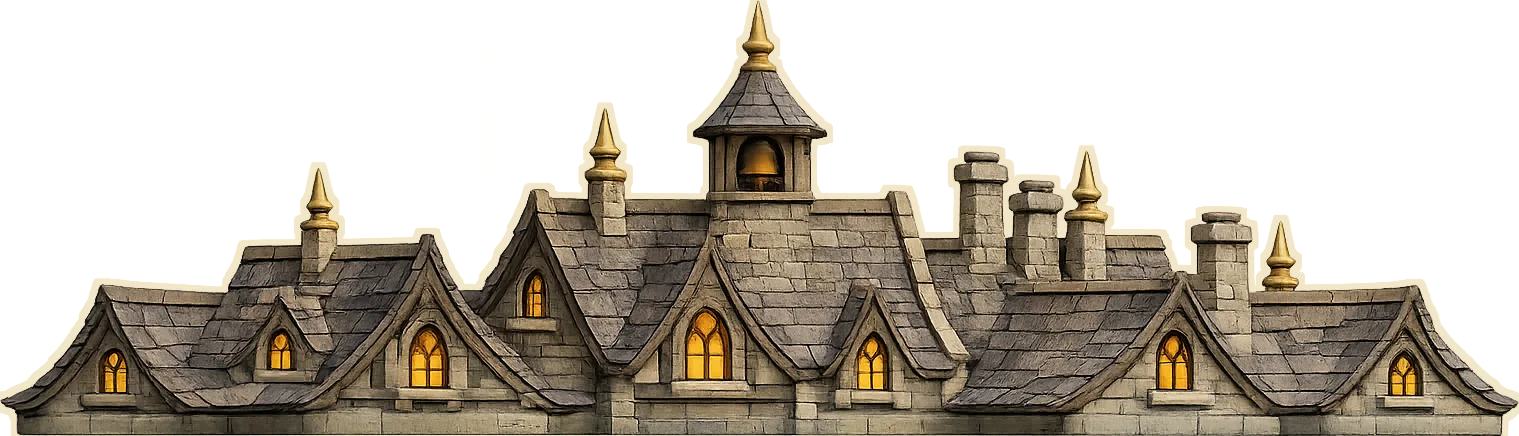
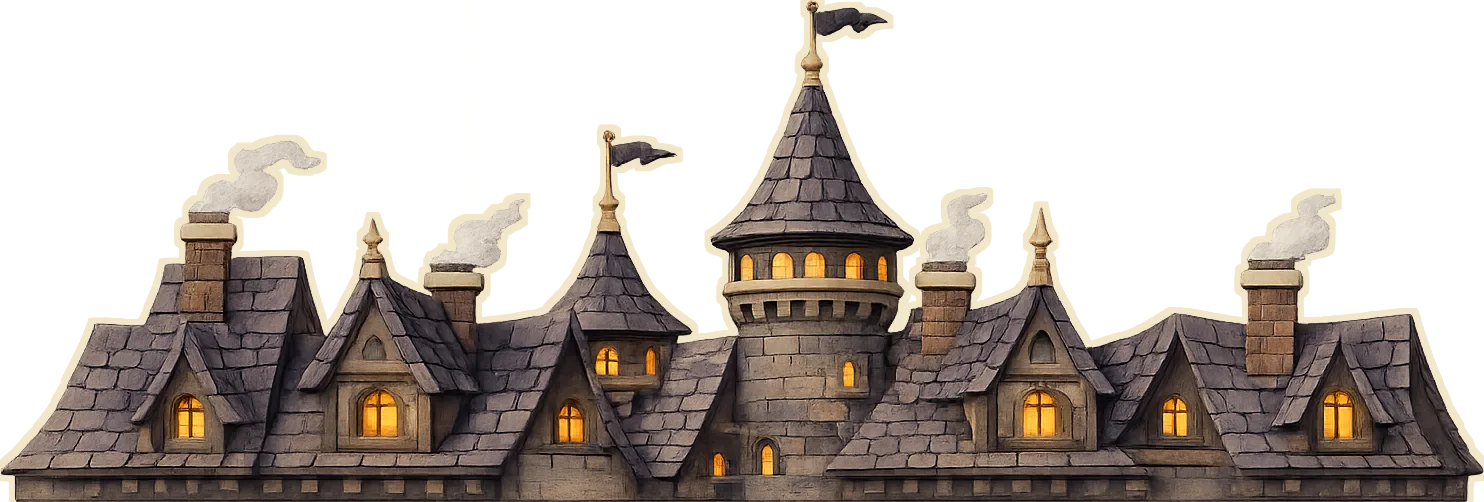
feat(labs/storybook): gallery arcade plate + real citadel-a city strips
The final two Keep v2 panels landed. The gallery tier gets its die-cut
arcade plate (delivered 3.677:1 -> flush width 0.68, height 0.1849),
closing the last blank band on the tower - the keep now reads as one
continuous painted elevation: wall, hall, arcade loggia, belfry, spire,
raven. The exposed cap strip above the plate renders as interior shadow
under the balcony cantilever.

ch3-citadel-a is now the real rooftop strip (2.956:1, dipped eaves at
both ends), replacing the mis-saved balcony duplicate: FAN_OUT restored
to a->l-mound0/r-mound1 with b/c back on two slots each, and the two
retargeted city rows retuned to the new aspect (widths 0.2365/0.2424).

A10 wedge containment: the keepstack joins the dress/rotor linear-slack
class - its anti-z-fight rider lifts (PLATE_LIFT/BALCONY_LIFT 0.004)
may exit the zero-thickness wedge by paper thickness near page-touch,
matching the bench's PLATE_WEDGE_TOL contract.

Verified: aspect bench 20/28 ok (8 known deferred sides/backs),
derive-keep-{stack,cityrows,gallery,winch} all pass, 1058/1058 unit,
tsc clean.

diff --git a/components/labs/storybook/content.ts b/components/labs/storybook/content.ts
@@ -257,10 +257,12 @@ const CH3_LAYERS: readonly SceneLayer[] = [
       // die-cut battlement, not raw kraft. Back cap braces, flat lid seats the
       // gallery + carries the balcony.
       { key: 'hall', a: 0.4, height: 0.25, z0: -0.34, z1: 0.34, roof: 'flat', capFront: true, capBack: true, plate: { width: 0.8, height: 0.1799 } },
-      // Balcony Gallery — solid capFront tier below the jutting gold balcony. Its
-      // die-cut arcade plate (3.1:1) is PENDING (user generating); until it lands
-      // the cap renders as plain kraft paper (no plate, no `-front` art yet).
-      { key: 'gallery', a: 0.34, height: 0.22, z0: -0.28, z1: 0.28, roof: 'flat', capFront: true, capBack: true },
+      // Balcony Gallery — solid capFront tier below the jutting gold balcony.
+      // Facade plate: painted arcade loggia (delivered 3.677) sized plate width =
+      // cap width 0.68 (flush, like the hall fallback) -> height 0.1849; the
+      // exposed cap strip above (0.185..0.22) renders as interior shadow, reading
+      // as the recess under the balcony cantilever.
+      { key: 'gallery', a: 0.34, height: 0.22, z0: -0.28, z1: 0.28, roof: 'flat', capFront: true, capBack: true, plate: { width: 0.68, height: 0.1849 } },
       // Rookery Loft — box shell whose walls carry die-cut arch voids (art: a
       // see-through belfry) and host the winch iris + counterweight; flat cap
       // slab seats the crown. Facade plate: painted roof + bell (delivered 2.427)
@@ -305,15 +307,15 @@ const CH3_LAYERS: readonly SceneLayer[] = [
   // overrun the radius cap). Bench Y1-Y6 all green (fold-flat, keep D-G2,
   // row/fringe/winch-disc D-G2, real-time 5% margin, fits-page, pinned-camera
   // sightline 51% visible). Slot->strip aspect per the prepare-art FAN_OUT
-  // (b-strips 3.484 -> l0/l1/r2, c-strips 3.185 -> l2/r0/r1).
+  // (a-strips 2.956 -> l0/r1, b-strips 3.484 -> l1/r2, c-strips 3.185 -> l2/r0).
   { id: 'ch3-skyline-l', kind: 'backdrop', role: 'scenery', mech: 'skyline', side: 'left', rows: [
-    { F: 0.44, zc: -0.56, height: 0.08, width: 0.2787, standDeg: 68 },
+    { F: 0.44, zc: -0.56, height: 0.08, width: 0.2365, standDeg: 68 },
     { F: 0.45, zc: -0.46, height: 0.082, width: 0.2857, standDeg: 68 },
     { F: 0.45, zc: -0.37, height: 0.078, width: 0.2484, standDeg: 68 },
   ] },
   { id: 'ch3-skyline-r', kind: 'backdrop', role: 'scenery', mech: 'skyline', side: 'right', rows: [
     { F: 0.44, zc: -0.56, height: 0.084, width: 0.2675, standDeg: 68 },
-    { F: 0.45, zc: -0.46, height: 0.082, width: 0.2612, standDeg: 68 },
+    { F: 0.45, zc: -0.46, height: 0.082, width: 0.2424, standDeg: 68 },
     { F: 0.45, zc: -0.37, height: 0.075, width: 0.2613, standDeg: 68 },
   ] },
   // THE TOWER-HOIST WINCH (derive-keep-winch.mjs) — the E-G6 composed-machine

diff --git a/__tests__/labs/storybook/popup-keepstack.test.ts b/__tests__/labs/storybook/popup-keepstack.test.ts
@@ -187,7 +187,7 @@ describe('dispatch keep — story cascade (bench derive-keep-stack.mjs / gallery
   })
 
   describe('die-cut facade plates (the raven-finial idiom generalized to tier fronts)', () => {
-    const PLATED = ['hall', 'loft', 'crown'] as const
+    const PLATED = ['hall', 'gallery', 'loft', 'crown'] as const
 
     it('every plated tier suppresses its cap-front art (capFrontArt:false) so the cap stays raw bracing paper', () => {
       const geoms = keepStackStoryGeoms(KEEP)
@@ -198,13 +198,12 @@ describe('dispatch keep — story cascade (bench derive-keep-stack.mjs / gallery
         if (plated) expect(g.capFrontArt).toBe(false)
         else expect(g.capFrontArt).toBeUndefined()
       }
-      // the gallery front is PENDING (no art) -> no plate yet.
-      expect(keepStackFacadePlate(KEEP, 'gallery', ...bloom(REST))).toBeNull()
     })
 
     it('each plate mesh aspect (width/height) equals the delivered UNCROPPED art aspect', () => {
-      // hall 4.448 (curtain wall), loft 2.427 (belfry roof+bell), crown 1.601 (spire).
-      const want: Record<string, number> = { hall: 4.448, loft: 2.427, crown: 1.601 }
+      // hall 4.448 (curtain wall), gallery 3.677 (arcade loggia), loft 2.427
+      // (belfry roof+bell), crown 1.601 (spire).
+      const want: Record<string, number> = { hall: 4.448, gallery: 3.677, loft: 2.427, crown: 1.601 }
       for (const key of PLATED) {
         const plate = KEEP.stories.find((s) => s.key === key)!.plate!
         expect(plate.width / plate.height).toBeCloseTo(want[key], 2)

diff --git a/__tests__/labs/storybook/popup-mechanics.test.ts b/__tests__/labs/storybook/popup-mechanics.test.ts
@@ -1156,8 +1156,16 @@ describe('A10 wedge containment — paper never pokes through either bounding pa
             // glue-layer lift (0.003) may sit inside the closing sandwich,
             // which a zero-thickness wedge reads as penetration. Allow it in
             // LINEAR terms (4mm against paper thickness 0.02); everything
-            // else keeps the strict angular tolerance.
-            const slackAng = layer.mech === 'dress' || layer.mech === 'rotor' ? 0.004 / r : 1e-6
+            // else keeps the strict angular tolerance. The keepstack joins the
+            // class: its anti-z-fight riders (facade PLATE_LIFT / BALCONY_LIFT
+            // 0.004, sh-scaled) ride a hair off their host planes, and near the
+            // page-touch pose that hair can exit the zero-thickness wedge by up
+            // to the lift — paper thickness, not penetration (bench-side S4
+            // tolerates the same via PLATE_WEDGE_TOL).
+            const slackAng =
+              layer.mech === 'dress' || layer.mech === 'rotor' || layer.mech === 'keepstack'
+                ? 0.004 / r
+                : 1e-6
             // atan2 jumps to -PI for points on the flat left page whose y
             // carries -0/-1e-17 float noise; lift those into [0, 2PI) so a
             // corner exactly on a page plane isn't a false violation.
